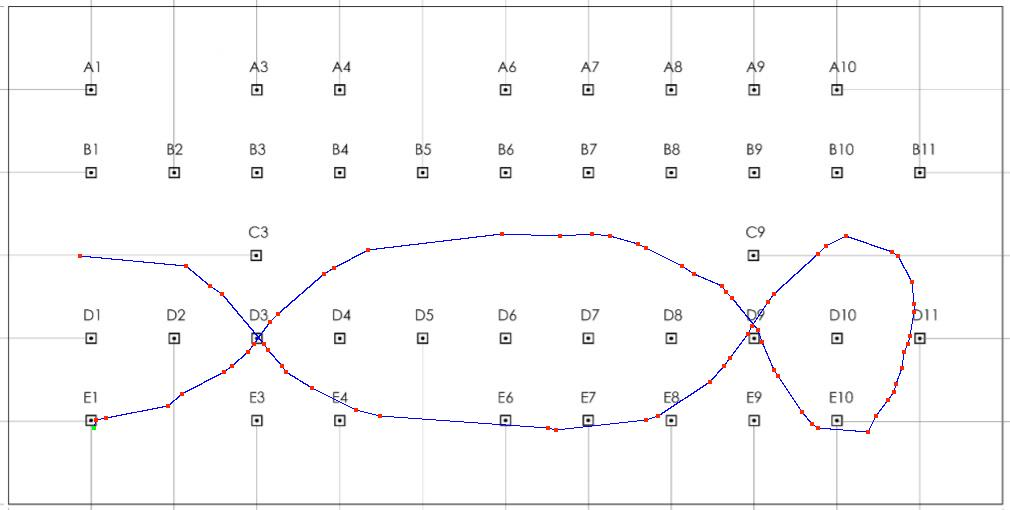
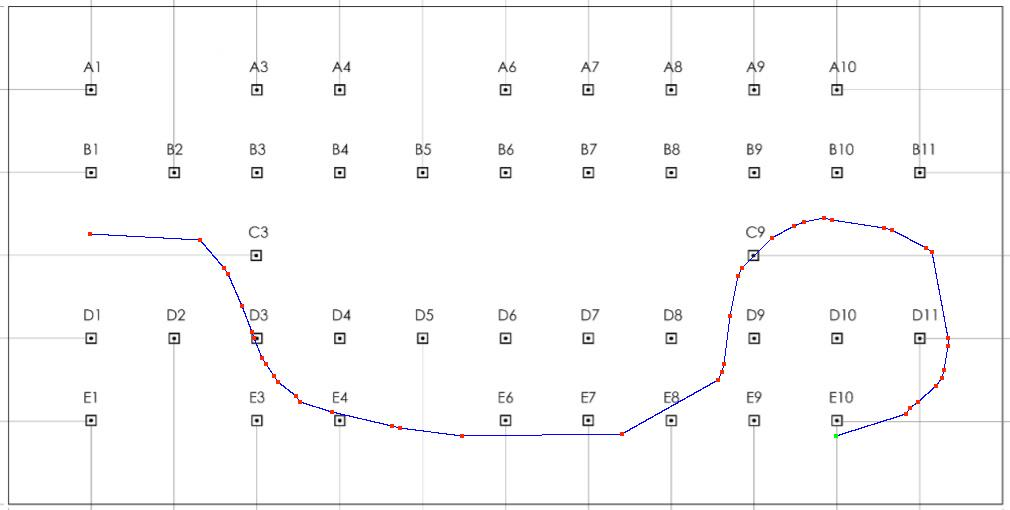
Work on Automation

diff --git a/src/main/java/frc/robot/helper/TestCourseManager.java b/src/main/java/frc/robot/helper/TestCourseManager.java
@@ -15,52 +15,47 @@ public class TestCourseManager extends CourseManager {
         List<double[]> wayPoints = new ArrayList();
 
         wayPoints.add(new double[] { -0.0, 0.0 });
-        wayPoints.add(new double[] { 0.073664, 0.018416 });
-        wayPoints.add(new double[] { 0.09208, 0.11049599999999998 });
-        wayPoints.add(new double[] { 0.31307199999999996, 0.8103039999999999 });
-        wayPoints.add(new double[] { 0.36832, 0.8839679999999999 });
-        wayPoints.add(new double[] { 0.7734719999999999, 1.47328 });
-        wayPoints.add(new double[] { 0.9760479999999999, 1.6206079999999998 });
-        wayPoints.add(new double[] { 1.418032, 2.1178399999999997 });
-        wayPoints.add(new double[] { 1.47328, 2.20992 });
-        wayPoints.add(new double[] { 1.7495199999999997, 2.799232 });
-        wayPoints.add(new double[] { 1.786352, 2.9281439999999996 });
-        wayPoints.add(new double[] { 1.786352, 3.7568639999999998 });
-        wayPoints.add(new double[] { 1.786352, 3.8489439999999995 });
-        wayPoints.add(new double[] { 1.786352, 4.493504 });
-        wayPoints.add(new double[] { 1.786352, 4.585584 });
-        wayPoints.add(new double[] { 1.491696, 5.414304 });
-        wayPoints.add(new double[] { 1.418032, 5.5248 });
-        wayPoints.add(new double[] { 0.902384, 6.1141119999999995 });
-        wayPoints.add(new double[] { 0.7918879999999999, 6.150943999999999 });
-        wayPoints.add(new double[] { 0.147328, 6.519264 });
-        wayPoints.add(new double[] { 0.036832, 6.611343999999999 });
-        wayPoints.add(new double[] { 0.257824, 7.311151999999999 });
-        wayPoints.add(new double[] { 0.33148799999999995, 7.3664 });
-        wayPoints.add(new double[] { 1.068128, 7.550559999999999 });
-        wayPoints.add(new double[] { 1.141792, 7.550559999999999 });
-        wayPoints.add(new double[] { 1.3443679999999998, 7.532144 });
-        wayPoints.add(new double[] { 1.7495199999999997, 7.090159999999999 });
-        wayPoints.add(new double[] { 1.7679359999999997, 6.924415999999999 });
-        wayPoints.add(new double[] { 1.3812, 6.408767999999999 });
-        wayPoints.add(new double[] { 1.2338719999999999, 6.2614399999999995 });
-        wayPoints.add(new double[] { 0.6445599999999999, 5.856287999999999 });
-        wayPoints.add(new double[] { 0.570896, 5.8010399999999995 });
-        wayPoints.add(new double[] { 0.11049599999999998, 5.193312 });
-        wayPoints.add(new double[] { 0.073664, 5.082815999999999 });
-        wayPoints.add(new double[] { -0.018416, 4.254096 });
-        wayPoints.add(new double[] { -0.0, 4.180432 });
-        wayPoints.add(new double[] { 0.073664, 3.5174559999999997 });
-        wayPoints.add(new double[] { 0.073664, 3.4253759999999995 });
-        wayPoints.add(new double[] { 0.11049599999999998, 2.7255679999999995 });
-        wayPoints.add(new double[] { 0.11049599999999998, 2.633488 });
-        wayPoints.add(new double[] { 0.36832, 2.007344 });
-        wayPoints.add(new double[] { 0.38673599999999997, 1.9336799999999998 });
-        wayPoints.add(new double[] { 0.9944639999999999, 1.418032 });
-        wayPoints.add(new double[] { 1.086544, 1.3259519999999998 });
-        wayPoints.add(new double[] { 1.491696, 0.8471359999999999 });
-        wayPoints.add(new double[] { 1.5837759999999999, 0.73664 });
-        wayPoints.add(new double[] { 1.5837759999999999, -0.128912 });
+        wayPoints.add(new double[] { 0.20257599999999998, 0.6445599999999999 });
+        wayPoints.add(new double[] { 0.257824, 0.6813919999999999 });
+        wayPoints.add(new double[] { 0.31307199999999996, 0.755056 });
+        wayPoints.add(new double[] { 0.4604, 0.9208 });
+        wayPoints.add(new double[] { 0.534064, 0.9760479999999999 });
+        wayPoints.add(new double[] { 0.6077279999999999, 0.9944639999999999 });
+        wayPoints.add(new double[] { 0.8287199999999999, 1.031296 });
+        wayPoints.add(new double[] { 0.902384, 1.031296 });
+        wayPoints.add(new double[] { 1.6942719999999998, 0.8839679999999999 });
+        wayPoints.add(new double[] { 1.7311039999999998, 0.8287199999999999 });
+        wayPoints.add(new double[] { 1.8968479999999999, 0.515648 });
+        wayPoints.add(new double[] { 1.9152639999999999, 0.44198399999999993 });
+        wayPoints.add(new double[] { 1.9889279999999998, -0.036832 });
+        wayPoints.add(new double[] { 2.007344, -0.11049599999999998 });
+        wayPoints.add(new double[] { 1.9705119999999998, -0.294656 });
+        wayPoints.add(new double[] { 1.9336799999999998, -0.38673599999999997 });
+        wayPoints.add(new double[] { 1.823184, -0.589312 });
+        wayPoints.add(new double[] { 1.5469439999999999, -0.8655519999999999 });
+        wayPoints.add(new double[] { 1.47328, -0.902384 });
+        wayPoints.add(new double[] { 1.10496, -0.9760479999999999 });
+        wayPoints.add(new double[] { 0.6629759999999999, -1.031296 });
+        wayPoints.add(new double[] { 0.589312, -1.049712 });
+        wayPoints.add(new double[] { 0.515648, -1.086544 });
+        wayPoints.add(new double[] { 0.018416, -1.9705119999999998 });
+        wayPoints.add(new double[] { -0.0, -3.4437919999999997 });
+        wayPoints.add(new double[] { 0.073664, -4.014688 });
+        wayPoints.add(new double[] { 0.09208, -4.0883519999999995 });
+        wayPoints.add(new double[] { 0.22099199999999997, -4.640832 });
+        wayPoints.add(new double[] { 0.31307199999999996, -4.935487999999999 });
+        wayPoints.add(new double[] { 0.36832, -4.97232 });
+        wayPoints.add(new double[] { 0.49723199999999995, -5.138064 });
+        wayPoints.add(new double[] { 0.55248, -5.1748959999999995 });
+        wayPoints.add(new double[] { 0.6629759999999999, -5.2485599999999994 });
+        wayPoints.add(new double[] { 0.718224, -5.285392 });
+        wayPoints.add(new double[] { 0.902384, -5.359056 });
+        wayPoints.add(new double[] { 0.9576319999999999, -5.377471999999999 });
+        wayPoints.add(new double[] { 1.1970399999999999, -5.469551999999999 });
+        wayPoints.add(new double[] { 1.491696, -5.598464 });
+        wayPoints.add(new double[] { 1.5469439999999999, -5.635295999999999 });
+        wayPoints.add(new double[] { 1.804768, -5.856287999999999 });
+        wayPoints.add(new double[] { 1.860016, -6.869167999999999 });
 
         return wayPoints;
     }

diff --git a/src/main/java/frc/robot/subsystems/Drive.java b/src/main/java/frc/robot/subsystems/Drive.java
@@ -99,6 +99,7 @@ public class Drive extends SubsystemBase {
     // -- replaced
     m_gyro = new ADXRS450_Gyro();
     m_gyro.reset();
+    m_gyro.calibrate();
 
     m_PDP = new PowerDistributionPanel(30);
 
@@ -181,7 +182,13 @@ public class Drive extends SubsystemBase {
   }
 
   public double getGyroYaw() {
-    return m_gyro.getAngle() % 360;
+    double angle = m_gyro.getAngle() % 360;
+
+    if (angle < 0) {
+      angle = angle + 360;
+    }
+
+    return angle;
   }
 
   public void updateAbsolutePosition(double x, double y, double heading) {
@@ -432,18 +439,24 @@ public class Drive extends SubsystemBase {
     double degreesOfRotation = Math.abs(finalHeading - initialHeading); // the amount of
     // degrees the
     // robot rotated
-    double turnRadius = 28.647 * Math.abs(leftMovement + rightMovement) / degreesOfRotation;
-    // (360 / degreesOfRotation) * (leftMovement + rightMovement) / 2 / 2 / 3.14; //
-    // the radius of the turn made by the robot
-    double xRelativeMovement = turnRadius - Math.cos(Math.toRadians(degreesOfRotation)) * turnRadius; // the x
-                                                                                                      // translation
-                                                                                                      // relative to
-    // the initial heading of the
-    // robot
-    // x is side to side
-    // left is negative, right is positive
-    double yRelativeMovement = Math.sin(Math.toRadians(degreesOfRotation)) * turnRadius;
-    // y is forward and backward
+    double xRelativeMovement = 0;
+    double yRelativeMovement = 0;
+    if (degreesOfRotation != 0) { // protects against a divide by zero error
+      double turnRadius = 28.647 * Math.abs(leftMovement + rightMovement) / degreesOfRotation;
+      // (360 / degreesOfRotation) * (leftMovement + rightMovement) / 2 / 2 / 3.14; //
+      // the radius of the turn made by the robot
+      xRelativeMovement = turnRadius - Math.cos(Math.toRadians(degreesOfRotation)) * turnRadius; // the x
+                                                                                                 // translation
+                                                                                                 // relative to
+      // the initial heading of the
+      // robot
+      // x is side to side
+      // left is negative, right is positive
+      yRelativeMovement = Math.sin(Math.toRadians(degreesOfRotation)) * turnRadius;
+      // y is forward and backward
+    } else {
+      yRelativeMovement = Math.abs(leftMovement + rightMovement) / 2;
+    }
 
     if ((rightMovement + leftMovement) < 0) {
       yRelativeMovement = -yRelativeMovement;
@@ -470,6 +483,8 @@ public class Drive extends SubsystemBase {
         + Math.cos(Math.toRadians(initialHeading - 90)) * yRelativeMovement;
     // I though about this backward -- x is sin and y is cos in this case
     // --FACESMACK
+
+    System.out.println(yAbsolute + " " + xAbsolute);
 
     return new double[] { yAbsolute, xAbsolute };
   }

diff --git a/CoursePlanner/CreateCourse.py b/CoursePlanner/CreateCourse.py
@@ -3,15 +3,19 @@ import numpy as np
 from numpy.lib.function_base import _diff_dispatcher
 import math
 
+
+
 k_searchInterval = 2 # the spacing between evaluated pixels
 k_lineThickness = 10 # the line thickness drawn on the image
 k_markerRadius = 2 # the radius for the marker on the output image
 k_markerColor = [255, 40, 5] #Ferrari Red
 k_orginColor = [0, 255, 0] # green
-k_waypointStringingRadius = 23 # the maximum distance to look for a waypoint when creating a path
+k_waypointStringingRadius = 43 # the maximum distance to look for a waypoint when creating a path
 k_pixelScalingFactor = .009208 # how many meters are represented by the length 1 pixel
 k_maxPathSmoothingDistance = 100 # how far between points the smoothing algorithim can go
 k_convertPathToCode = True # wether or not to save the path as lines of code
+k_initalXOffset = 0  # the inital x
+k_initialYOffset = 0  # the initial y
 
 baseImage = Image.open('BaseImage.jpg')
 baseImageBitmap = np.array(baseImage) #3d image array [height, width, RGBA]
@@ -20,7 +24,7 @@ outputImageBitmap = baseImageBitmap # save for later use
 baseHeight = baseImageBitmap.shape[0]
 baseWidth = baseImageBitmap.shape[1]
 
-newImage = Image.open('NewImage6.jpg')
+newImage = Image.open('Salolom2.jpg')
 newImageBitmap = np.array(newImage)
 
 newHeight = newImageBitmap.shape[0]
@@ -179,7 +183,7 @@ while(pathFound):
             if(unlineraity < lowestUnlinearity or lowestUnlinearity == -1):
                 lowestUnlinearity = unlineraity
         
-        unlineraityMax = lowestUnlinearity + math.pi / 16 # waypoints that are valid must be in this range + or -
+        unlineraityMax = lowestUnlinearity + math.pi / 6 # waypoints that are valid must be in this range + or -
         validWaypoints = [] # all of the points that are w ithin the unlinearity max
         for waypoint in waypointsInZoneArray:
             currentAngle = math.pi / 2
@@ -440,7 +444,7 @@ print("Scaling path")
 
 scaledPathArray = [] # the transposed path array but scale to meters
 for waypoint in pathArray: # creates a copy of the path array but relative to the orgin
-    scaledPathArray.append([(waypoint[0] - orgin[0]) * k_pixelScalingFactor, (waypoint[1] - orgin[1]) * k_pixelScalingFactor])
+    scaledPathArray.append([(waypoint[0] - orgin[0]) * k_pixelScalingFactor + k_initialYOffset, (waypoint[1] - orgin[1] ) * k_pixelScalingFactor] + k_initalXOffset)
 
 print("Converting path to code")
 codePathArray = []
@@ -456,7 +460,7 @@ printArray = scaledPathArray
 if(k_convertPathToCode):
     printArray = codePathArray
 
-file = open("outputPath.txt", "w") # open file and truncate
+file = open("outputPath2.txt", "w") # open file and truncate
 
 for line in printArray:
     file.write(line)

diff --git a/src/main/java/frc/robot/helper/WayPoint.java b/src/main/java/frc/robot/helper/WayPoint.java
@@ -5,7 +5,7 @@ public class WayPoint {
     // positioning in meters
     private double m_absoluteX;
     private double m_absoluteY;
-    private double m_targetRadius = .2;
+    private double m_targetRadius = .1;
 
     public boolean cleared = false; // wether the radian has been cleared
 
@@ -27,7 +27,11 @@ public class WayPoint {
     public double getHeadingTo(double x, double y) {
 
         // acot because y is straight ahead and x is side to side -- x and y are flipped
-        double radians = -Math.atan((m_absoluteX - x) / (m_absoluteY - y));
+        double radians = Math.PI / 2;
+
+        if (Math.abs(m_absoluteY - y) > .00001) { // prevents NAN errorz
+            radians = -Math.atan((m_absoluteX - x) / (m_absoluteY - y));
+        }
 
         if ((m_absoluteY - y) < 0) { // accounts for the return of arc only covering half the range
             radians = radians + Math.PI;
@@ -38,5 +42,6 @@ public class WayPoint {
         }
 
         return 57.32 * radians; // degrees
+
     }
 }

diff --git a/src/main/java/frc/robot/commands/AutomatedMotion/GoToPoint.java b/src/main/java/frc/robot/commands/AutomatedMotion/GoToPoint.java
@@ -17,8 +17,8 @@ public class GoToPoint extends CommandBase {
     private Timer m_timer; // allows for the calculation of the derivative
     private double m_previousFrameCount; // the most recent acknowledged frame
 
-    private double m_basePower = -0.4; // the base value for moving to power cells
-    private double m_Kp = 0.08;
+    private double m_basePower = -0.3; // the base value for moving to power cells
+    private double m_Kp = 0.1;
     private double m_Ki = 0.02;
     private double m_Kd = 0.0013;
 
